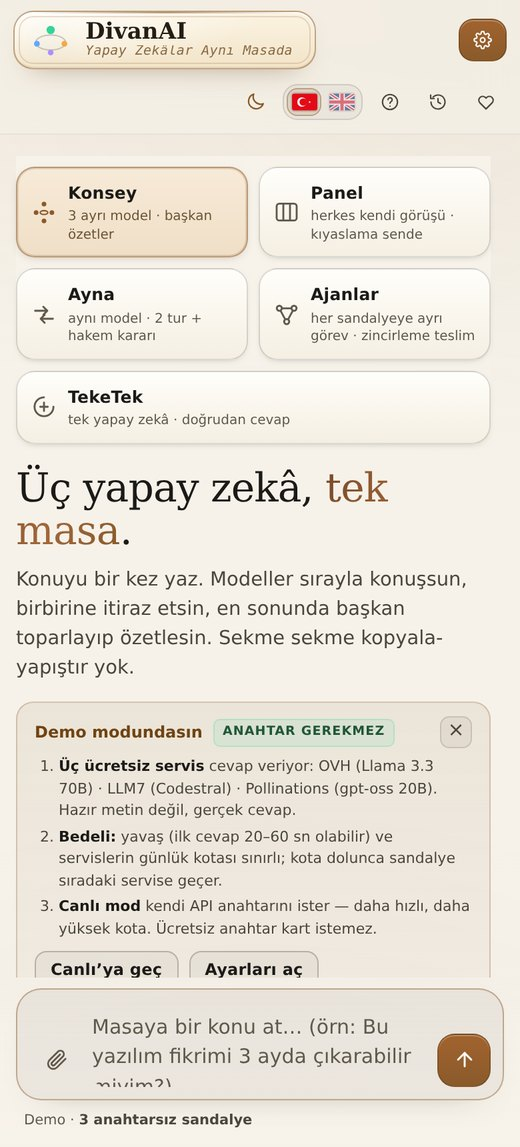
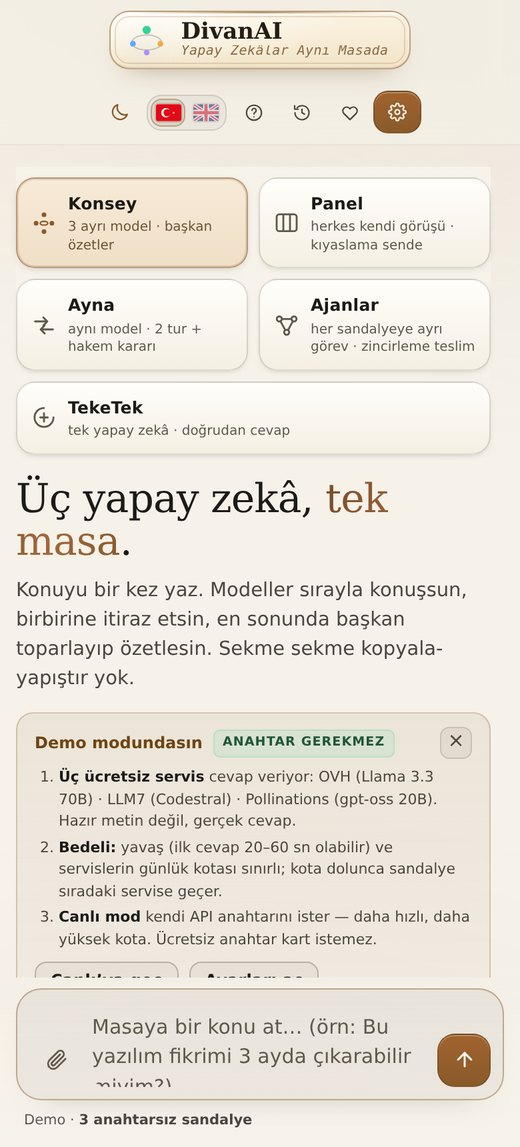
Add files via upload

diff --git a/index.html b/index.html
@@ -1006,16 +1006,17 @@ select optgroup{background:var(--panelSolid);color:var(--muted)}
   .brand{gap:8px}
   .brandtext b{font-size:18px}
 }
-/* Kol 118b · MOBİL: üst şerit iki satır.
-   Satır 1: logo plakası (tam ad + slogan) + Ayarlar
-   Satır 2: tema · dil · yardım · geçmiş · destek
-   Böylece marka adı hiçbir genişlikte "Div…" diye kesilmiyor. */
+/* Kol 118b/c · MOBİL: üst şerit iki satır, İKİSİ DE ORTALI.
+   Satır 1: logo plakası (ad + slogan) — tam ortada
+   Satır 2: tema · dil · yardım · geçmiş · destek · Ayarlar — grup ortada
+   Satırı bölen görünmez öğe: .topbar::after (yüksekliği 0, yer kaplamaz). */
 @media (max-width:520px){
-  .topbar{flex-wrap:wrap;row-gap:7px;padding:8px 10px;gap:8px}
-  .brand{order:1;margin-right:auto;flex:0 0 auto;max-width:calc(100% - 48px)}
-  #settingsBtn{order:2;margin-left:0}
-  .topmid{order:3}
-  .topactions{order:4;flex:1 1 100%;justify-content:flex-end;gap:7px}
+  .topbar{flex-wrap:wrap;row-gap:8px;padding:8px 10px;gap:8px;justify-content:center}
+  .topbar::after{content:"";order:2;flex-basis:100%;height:0}   /* satır sonu */
+  .brand{order:1;flex:0 0 auto;margin:0;max-width:100%}
+  .topactions{order:3;flex:0 1 auto;justify-content:center;gap:7px}
+  #settingsBtn{order:4;margin-left:0}
+  .topmid{display:none}
   .brandtext span{display:block;font-size:10px;letter-spacing:.01em}
   .brand{padding:5px 13px 5px 8px;gap:9px}
   .brand .logo{width:30px;height:30px}

diff --git a/README.md b/README.md
@@ -517,10 +517,15 @@ dokunmaz (önce “Durdur”). Klavyeyle de çalışır: plaka bir düğmedir, `
 |---|---|
 | ![Plaka gündüz](ekranlar/118-logo-gunduz.jpg) | ![Plaka gece](ekranlar/118-logo-gece.jpg) |
 
-**Telefonda üst şerit iki satır:** üstte plaka (ad + slogan) ve Ayarlar; altta tema · dil · yardım ·
-geçmiş · destek. Marka adı hiçbir genişlikte kısaltılmıyor (eskiden “Div…” diye kesiliyordu).
-400 px altında Ayarlar yalnız simge olur (adı çekmecede zaten var); 360 px altında yalnız ortadaki
-Demo/Canlı rozeti gizlenir.
+**Telefonda üst şerit iki satır, ikisi de ortalanmış:**
+
+| Satır | İçerik |
+|---|---|
+| 1 | Logo plakası (ad + slogan) — **tam ortada** |
+| 2 | tema · dil · yardım · geçmiş · **destek** · **Ayarlar** — grup ortada |
+
+Marka adı hiçbir genişlikte kısaltılmıyor (eskiden “Div…” diye kesiliyordu); 360 px altında yalnız
+ortadaki Demo/Canlı rozeti gizlenir.
 
 | Telefon · üst şerit | Telefon · ana ekran |
 |---|---|

diff --git a/README.en.md b/README.en.md
@@ -519,10 +519,15 @@ a button: `Tab` to focus, `Enter` to press.
 |---|---|
 | ![Plaque day](ekranlar/118-logo-gunduz.jpg) | ![Plaque night](ekranlar/118-logo-gece.jpg) |
 
-**On the phone the top bar is two rows:** the plaque (name + slogan) and Settings on top; theme ·
-language · help · history · support below. The brand name is never truncated at any width (it used
-to shrink to “Div…”). Under 400 px Settings becomes icon-only (its label is in the drawer); under
-360 px only the centred Demo/Live badge is hidden.
+**On the phone the top bar is two rows, both centred:**
+
+| Row | Content |
+|---|---|
+| 1 | Logo plaque (name + slogan) — **exactly centred** |
+| 2 | theme · language · help · history · **support** · **Settings** — group centred |
+
+The brand name is never truncated at any width (it used to shrink to “Div…”); under 360 px only the
+centred Demo/Live badge is hidden.
 
 | Phone · top bar | Phone · home |
 |---|---|
